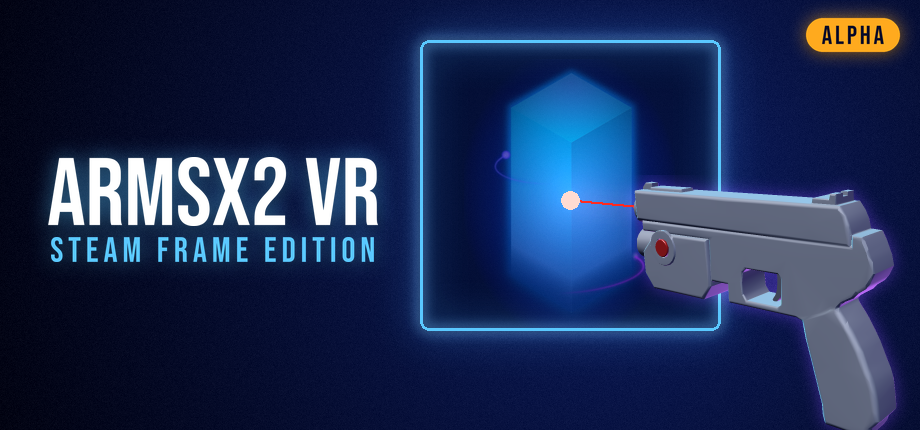
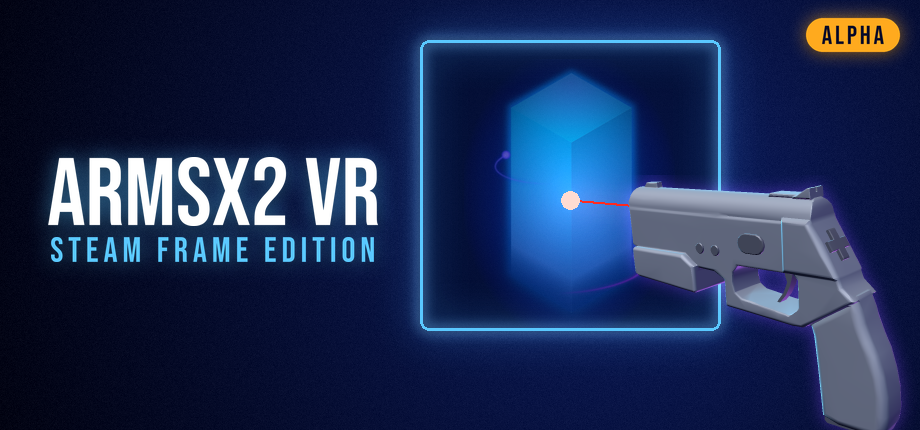
Steam art: Light Gun 2 in the artwork and the installer page
make_art.py renders assets/lightgun2.glb, the GunCon 2 drawn from photos,
instead of the PS1 gun: the capsule, wide capsule, hero and icon in both
the Alpha set (assets/steam/) and the set for after Alpha
(assets/steam-final/), and the installer page's hero.jpg and favicon.png.
The D-pad on its rear face, A, Select and Start show; each shot re-solves
its camera roll from the new muzzle, so the beam still meets the aim dot.
The logos have no gun and are unchanged. GLB at the top of make_art.py
picks the model.

Changed region(s): [[0.6696, 0.4233, 1.0, 1.0]]

diff --git a/tools/steam-art/make_art.py b/tools/steam-art/make_art.py
@@ -2,7 +2,7 @@
 Alpha badge into assets/steam-final/, and the installer page's hero.jpg, logo.png and favicon.png.
 Usage: python make_art.py <repo root>
 Sources: the ARMSX2 app icon (glowing pillar), the Bebas Neue font from the ARMSX2 Android app
-and assets/lightgun.glb. Needs Python 3 with numpy and pillow."""
+and assets/lightgun2.glb (Light Gun 2). Needs Python 3 with numpy and pillow."""
 import os, sys
 import numpy as np
 from PIL import Image, ImageDraw, ImageFilter, ImageFont, ImageChops
@@ -13,7 +13,7 @@ ROOT = os.path.abspath(sys.argv[1] if len(sys.argv) > 1 else os.path.join(os.pat
 ARMSX2 = os.path.join(ROOT, 'external/armsx2')
 PILLAR = os.path.join(ARMSX2, 'platforms/ios/app/src/main/assets/app_icons/icon.png')
 BEBAS = os.path.join(ARMSX2, 'platforms/android/app/src/main/res/font/bebas_neue.ttf')
-GLB = os.path.join(ROOT, 'assets/lightgun.glb')
+GLB = os.path.join(ROOT, 'assets/lightgun2.glb')
 OUT = os.path.join(ROOT, 'assets/steam')
 FINAL = os.path.join(ROOT, 'assets/steam-final')
 UI = os.path.join(ROOT, 'tools/steam-frame/installer/ui')

diff --git a/tools/steam-art/gun.py b/tools/steam-art/gun.py
@@ -1,4 +1,4 @@
-"""Studio render of assets/lightgun.glb for the Steam artwork: numpy rasteriser with perspective,
+"""Studio render of a light gun model (assets/lightgun2.glb) for the Steam artwork: numpy rasteriser with perspective,
 per-pixel normals, cyan/violet rim lights (the ARMSX2 palette), an emissive lens and an alpha channel."""
 import json, math, struct
 import numpy as np

diff --git a/tools/steam-art/README.md b/tools/steam-art/README.md
@@ -30,7 +30,7 @@ Steam keys a non-Steam shortcut's artwork by the shortcut's app ID (`<id>`, the 
 
 - **ARMSX2 pillar.** Cut from the ARMSX2 app icon (`external/armsx2/platforms/ios/app/src/main/assets/app_icons/icon.png`, GPLv3 with the ARMSX2 sources) and added onto the background, so its glow blends in.
 - **Title font.** Bebas Neue, shipped by the ARMSX2 Android app (`res/font/bebas_neue.ttf`, SIL Open Font License 1.1). Only rendered text is in the images; the font file is not copied.
-- **Light gun.** `assets/lightgun.glb`, rendered by `gun.py`. This is a numpy rasteriser with perspective, cyan and violet rim lights in the ARMSX2 palette, and emissive lenses with bloom. Each scene picks the camera roll so the bore points at the red aim dot in the window (`solve_shot`). The model is our own, drawn from photos (see [`tools/lightgun/README.md`](../lightgun/README.md)), and so are the renders of it here.
+- **Light gun.** `assets/lightgun2.glb` (Light Gun 2), rendered by `gun.py`. This is a numpy rasteriser with perspective, cyan and violet rim lights in the ARMSX2 palette, and emissive lenses with bloom. Each scene picks the camera roll so the bore points at the red aim dot in the window (`solve_shot`). The model is our own, drawn from photos (see [`tools/lightgun/README.md`](../lightgun/README.md)), and so are the renders of it here.
 - **The window.** The glowing frame stands for the volumetric window the game is shown in on the Frame.
 - **Alpha badge.** An amber pill reading "ALPHA" in Bebas Neue, with an amber halo (`alpha_badge`, `put_badge`). It goes in the top right corner of the capsule, the wide capsule, the hero (set in from the edges so Steam's cropping keeps it) and the icon, and under the end of "STEAM FRAME EDITION" in the logo. The `ALPHA` constant at the top of `make_art.py` turns it on.
 
@@ -40,4 +40,4 @@ Set `ALPHA = False` at the top of `make_art.py` and rerun it: `assets/steam/` an
 
 ## Changing the layout
 
-To change the layout, edit the per-image functions (`capsule`, `wide`, `hero`, `logo`, `icon`). Each one sets the window box, the aim target, and the gun's render size and position in that image's pixels.
+To change the layout, edit the per-image functions (`capsule`, `wide`, `hero`, `logo`, `icon`). Each one sets the window box, the aim target, and the gun's render size and position in that image's pixels. `GLB` at the top of `make_art.py` picks the gun model.
